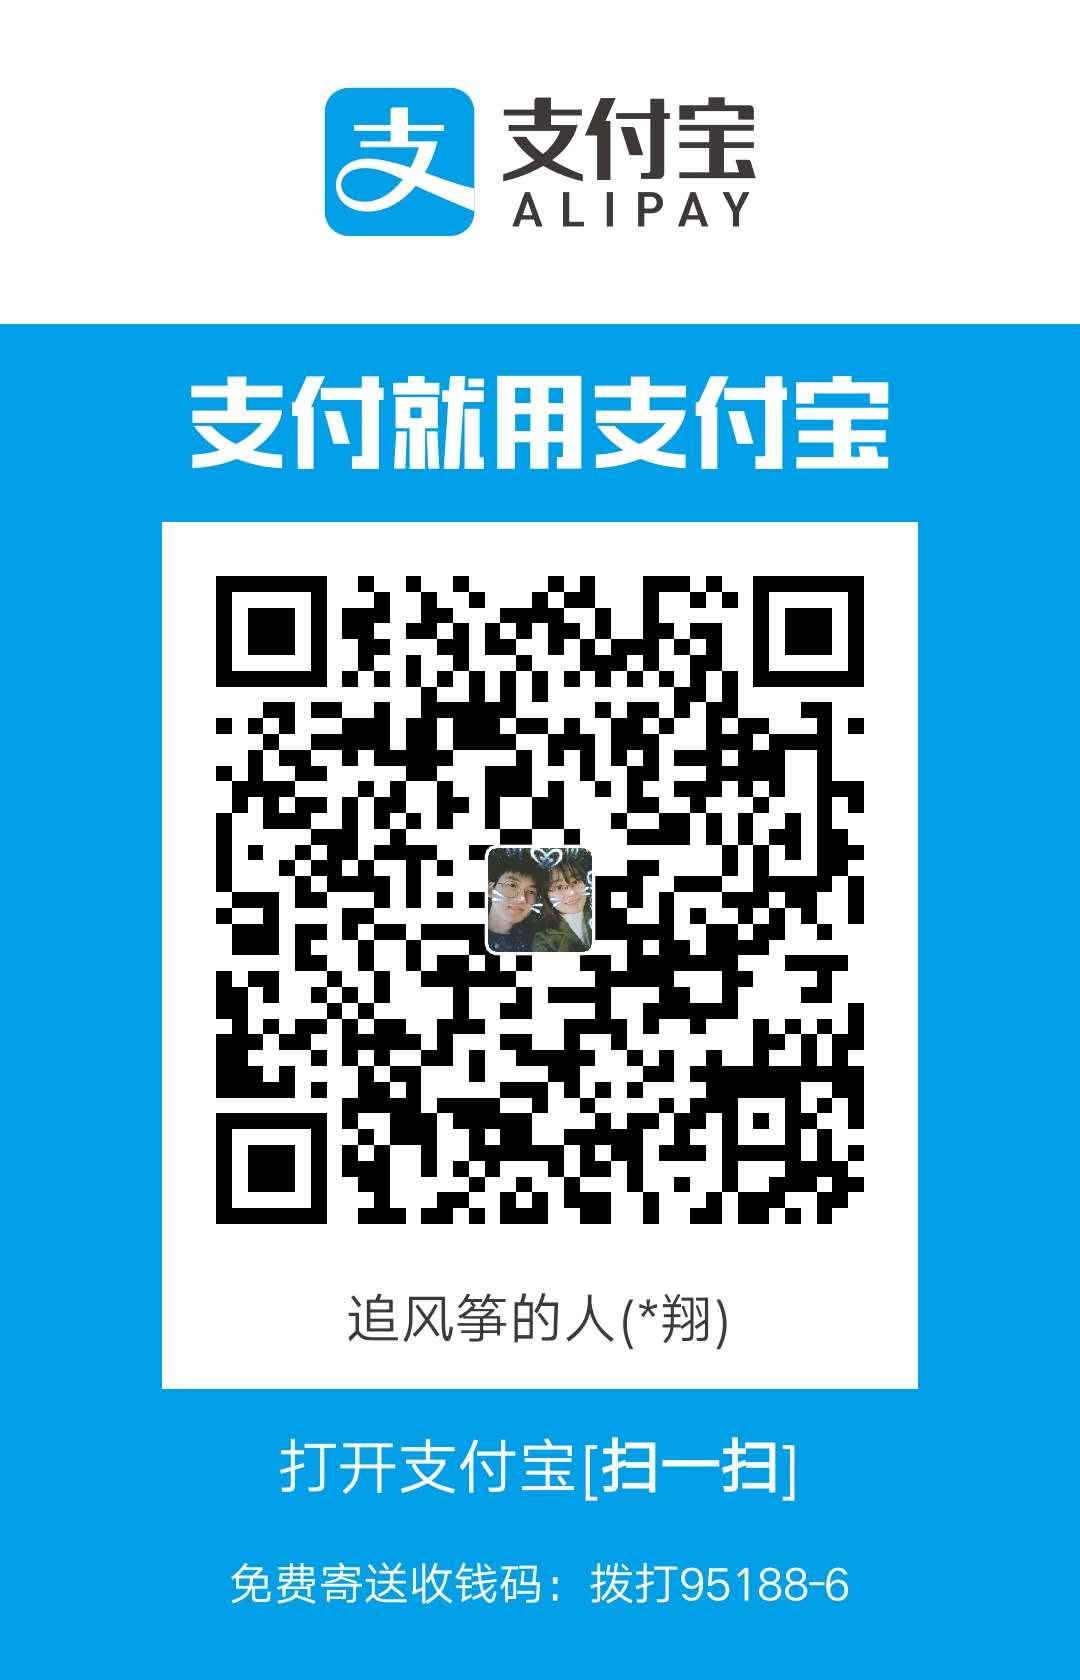
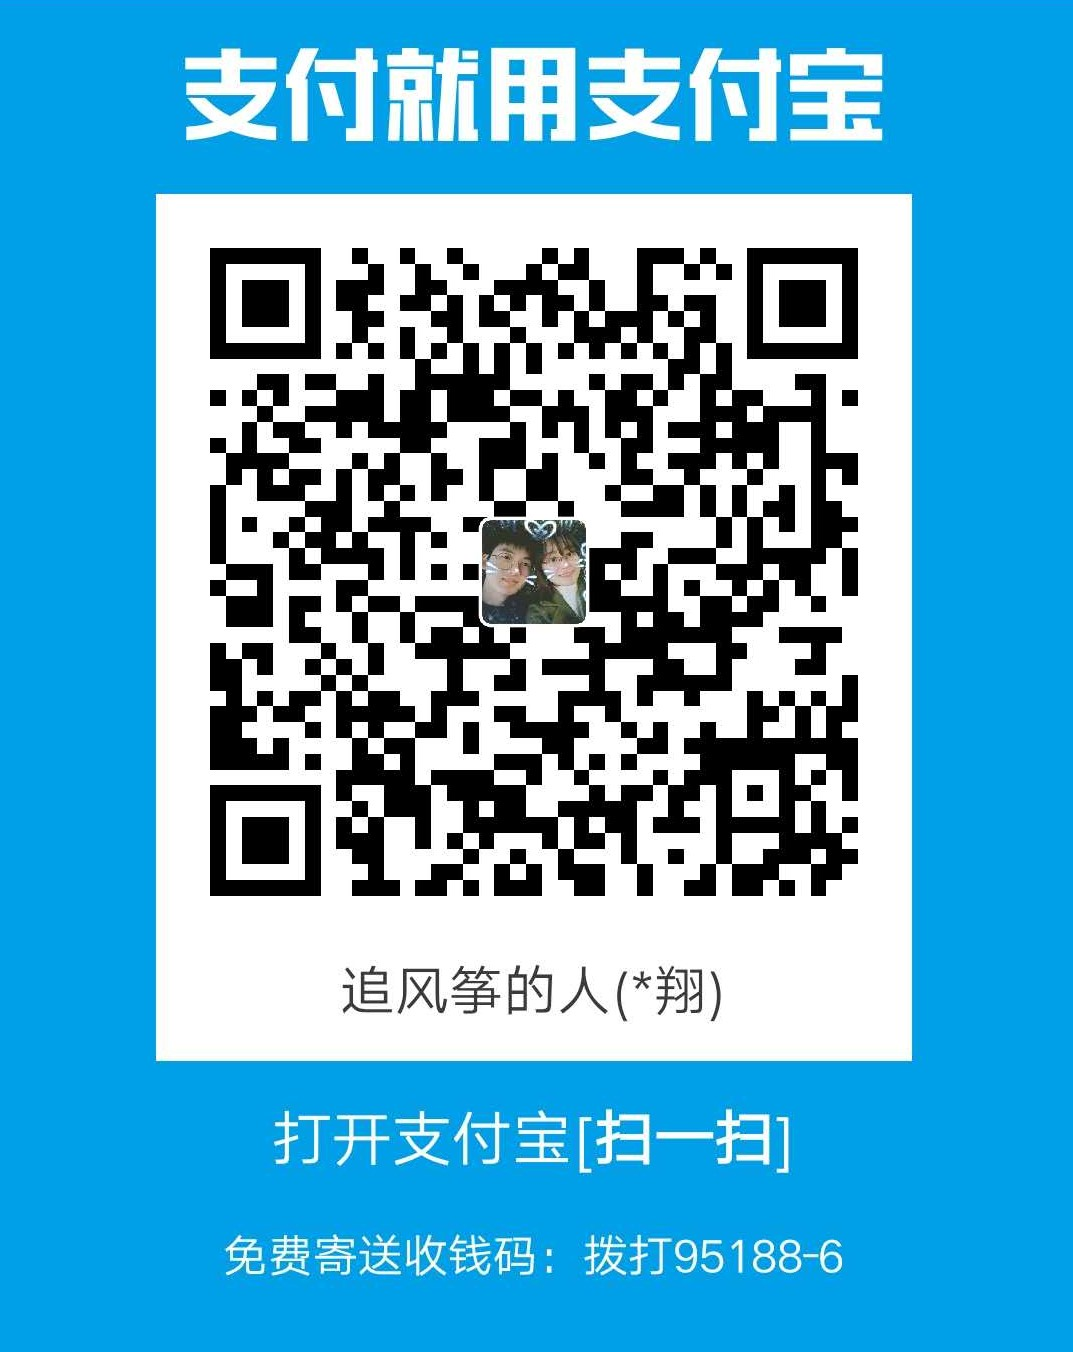
Site updated: 2018-12-12 20:28:52

diff --git a/categories/index.html b/categories/index.html
@@ -103,7 +103,7 @@
 <meta property="og:site_name" content="平凡之路">
 <meta property="og:description" content="Stay Hungry , Stay Foolish , Stay Patient , Stay Love !">
 <meta property="og:locale" content="zh-Hans">
-<meta property="og:updated_time" content="2018-12-12T11:46:48.259Z">
+<meta property="og:updated_time" content="2018-12-12T12:10:12.034Z">
 <meta name="twitter:card" content="summary">
 <meta name="twitter:title" content="categories">
 <meta name="twitter:description" content="Stay Hungry , Stay Foolish , Stay Patient , Stay Love !">
@@ -243,7 +243,7 @@
       
         
         <li class="menu-item menu-item-sitemap">
-          <a href="/sitemap.xml" rel="section">
+          <a href="/sitemap" rel="section">
             
               <i class="menu-item-icon fa fa-fw fa-sitemap"></i> <br>
             
@@ -290,6 +290,22 @@
     </div>
   
 </nav>
+<script>
+    
+    window.onload = function(){
+        var path = 'https://malizhi.cn'; //这里要改成你博客的地址
+        var localhostItem = String(window.location).split(path)[1];
+        var LiNode = document.querySelectorAll('#menu > li > a')
+        
+        for(var i = 0; i< LiNode.length;i++){
+            var item = String(LiNode[i].href).split(path)[1];
+            if(item == localhostItem && item != undefined){
+                LiNode[i].setAttribute('style','border-bottom:1px solid black');
+            }
+        }
+    };
+
+</script>
 
 
 
@@ -346,12 +362,8 @@
 
 
           
-  <div class="comments" id="comments">
-    
       <div id="lv-container" data-id="city" data-uid="MTAyMC80MTU3Ny8xODEyNA=="></div>
-    
-  </div>
-  
+
 
         </div>
         
@@ -602,17 +614,6 @@
 
 
 
-  
-    <script type="text/javascript">
-      (function(d, s) {
-        var j, e = d.getElementsByTagName(s)[0];
-        if (typeof LivereTower === 'function') { return; }
-        j = d.createElement(s);
-        j.src = 'https://cdn-city.livere.com/js/embed.dist.js';
-        j.async = true;
-        e.parentNode.insertBefore(j, e);
-      })(document, 'script');
-    </script>
   
 
 

diff --git a/sitemap/index.html b/sitemap/index.html
@@ -103,7 +103,7 @@
 <meta property="og:site_name" content="平凡之路">
 <meta property="og:description" content="Stay Hungry , Stay Foolish , Stay Patient , Stay Love !">
 <meta property="og:locale" content="zh-Hans">
-<meta property="og:updated_time" content="2018-12-12T11:28:20.863Z">
+<meta property="og:updated_time" content="2018-12-12T12:13:18.276Z">
 <meta name="twitter:card" content="summary">
 <meta name="twitter:title" content="sitemap">
 <meta name="twitter:description" content="Stay Hungry , Stay Foolish , Stay Patient , Stay Love !">
@@ -243,7 +243,7 @@
       
         
         <li class="menu-item menu-item-sitemap">
-          <a href="/sitemap.xml" rel="section">
+          <a href="/sitemap" rel="section">
             
               <i class="menu-item-icon fa fa-fw fa-sitemap"></i> <br>
             
@@ -290,6 +290,22 @@
     </div>
   
 </nav>
+<script>
+    
+    window.onload = function(){
+        var path = 'https://malizhi.cn'; //这里要改成你博客的地址
+        var localhostItem = String(window.location).split(path)[1];
+        var LiNode = document.querySelectorAll('#menu > li > a')
+        
+        for(var i = 0; i< LiNode.length;i++){
+            var item = String(LiNode[i].href).split(path)[1];
+            if(item == localhostItem && item != undefined){
+                LiNode[i].setAttribute('style','border-bottom:1px solid black');
+            }
+        }
+    };
+
+</script>
 
 
 
@@ -339,12 +355,8 @@
 
 
           
-  <div class="comments" id="comments">
-    
       <div id="lv-container" data-id="city" data-uid="MTAyMC80MTU3Ny8xODEyNA=="></div>
-    
-  </div>
-  
+
 
         </div>
         
@@ -595,17 +607,6 @@
 
 
 
-  
-    <script type="text/javascript">
-      (function(d, s) {
-        var j, e = d.getElementsByTagName(s)[0];
-        if (typeof LivereTower === 'function') { return; }
-        j = d.createElement(s);
-        j.src = 'https://cdn-city.livere.com/js/embed.dist.js';
-        j.async = true;
-        e.parentNode.insertBefore(j, e);
-      })(document, 'script');
-    </script>
   
 
 

diff --git a/tags/index.html b/tags/index.html
@@ -103,7 +103,7 @@
 <meta property="og:site_name" content="平凡之路">
 <meta property="og:description" content="Stay Hungry , Stay Foolish , Stay Patient , Stay Love !">
 <meta property="og:locale" content="zh-Hans">
-<meta property="og:updated_time" content="2018-12-12T11:45:34.362Z">
+<meta property="og:updated_time" content="2018-12-12T12:10:30.294Z">
 <meta name="twitter:card" content="summary">
 <meta name="twitter:title" content="tags">
 <meta name="twitter:description" content="Stay Hungry , Stay Foolish , Stay Patient , Stay Love !">
@@ -243,7 +243,7 @@
       
         
         <li class="menu-item menu-item-sitemap">
-          <a href="/sitemap.xml" rel="section">
+          <a href="/sitemap" rel="section">
             
               <i class="menu-item-icon fa fa-fw fa-sitemap"></i> <br>
             
@@ -290,6 +290,22 @@
     </div>
   
 </nav>
+<script>
+    
+    window.onload = function(){
+        var path = 'https://malizhi.cn'; //这里要改成你博客的地址
+        var localhostItem = String(window.location).split(path)[1];
+        var LiNode = document.querySelectorAll('#menu > li > a')
+        
+        for(var i = 0; i< LiNode.length;i++){
+            var item = String(LiNode[i].href).split(path)[1];
+            if(item == localhostItem && item != undefined){
+                LiNode[i].setAttribute('style','border-bottom:1px solid black');
+            }
+        }
+    };
+
+</script>
 
 
 
@@ -346,12 +362,8 @@
 
 
           
-  <div class="comments" id="comments">
-    
       <div id="lv-container" data-id="city" data-uid="MTAyMC80MTU3Ny8xODEyNA=="></div>
-    
-  </div>
-  
+
 
         </div>
         
@@ -602,17 +614,6 @@
 
 
 
-  
-    <script type="text/javascript">
-      (function(d, s) {
-        var j, e = d.getElementsByTagName(s)[0];
-        if (typeof LivereTower === 'function') { return; }
-        j = d.createElement(s);
-        j.src = 'https://cdn-city.livere.com/js/embed.dist.js';
-        j.async = true;
-        e.parentNode.insertBefore(j, e);
-      })(document, 'script');
-    </script>
   
 
 

diff --git a/2018/12/05/hello-world/index.html b/2018/12/05/hello-world/index.html
@@ -243,7 +243,7 @@
       
         
         <li class="menu-item menu-item-sitemap">
-          <a href="/sitemap.xml" rel="section">
+          <a href="/sitemap" rel="section">
             
               <i class="menu-item-icon fa fa-fw fa-sitemap"></i> <br>
             
@@ -290,6 +290,22 @@
     </div>
   
 </nav>
+<script>
+    
+    window.onload = function(){
+        var path = 'https://malizhi.cn'; //这里要改成你博客的地址
+        var localhostItem = String(window.location).split(path)[1];
+        var LiNode = document.querySelectorAll('#menu > li > a')
+        
+        for(var i = 0; i< LiNode.length;i++){
+            var item = String(LiNode[i].href).split(path)[1];
+            if(item == localhostItem && item != undefined){
+                LiNode[i].setAttribute('style','border-bottom:1px solid black');
+            }
+        }
+    };
+
+</script>
 
 
 
@@ -470,7 +486,7 @@
 
     
       <div id="alipay" style="display: inline-block">
-        <img id="alipay_qr" src="/images/alipay.png" alt="Henry Yao Alipay">
+        <img id="alipay_qr" src="/images/alipay.jpg" alt="Henry Yao Alipay">
         <p>Alipay</p>
       </div>
     

diff --git a/archives/2018/12/index.html b/archives/2018/12/index.html
@@ -242,7 +242,7 @@
       
         
         <li class="menu-item menu-item-sitemap">
-          <a href="/sitemap.xml" rel="section">
+          <a href="/sitemap" rel="section">
             
               <i class="menu-item-icon fa fa-fw fa-sitemap"></i> <br>
             
@@ -289,6 +289,22 @@
     </div>
   
 </nav>
+<script>
+    
+    window.onload = function(){
+        var path = 'https://malizhi.cn'; //这里要改成你博客的地址
+        var localhostItem = String(window.location).split(path)[1];
+        var LiNode = document.querySelectorAll('#menu > li > a')
+        
+        for(var i = 0; i< LiNode.length;i++){
+            var item = String(LiNode[i].href).split(path)[1];
+            if(item == localhostItem && item != undefined){
+                LiNode[i].setAttribute('style','border-bottom:1px solid black');
+            }
+        }
+    };
+
+</script>
 
 
 

diff --git a/archives/2018/index.html b/archives/2018/index.html
@@ -242,7 +242,7 @@
       
         
         <li class="menu-item menu-item-sitemap">
-          <a href="/sitemap.xml" rel="section">
+          <a href="/sitemap" rel="section">
             
               <i class="menu-item-icon fa fa-fw fa-sitemap"></i> <br>
             
@@ -289,6 +289,22 @@
     </div>
   
 </nav>
+<script>
+    
+    window.onload = function(){
+        var path = 'https://malizhi.cn'; //这里要改成你博客的地址
+        var localhostItem = String(window.location).split(path)[1];
+        var LiNode = document.querySelectorAll('#menu > li > a')
+        
+        for(var i = 0; i< LiNode.length;i++){
+            var item = String(LiNode[i].href).split(path)[1];
+            if(item == localhostItem && item != undefined){
+                LiNode[i].setAttribute('style','border-bottom:1px solid black');
+            }
+        }
+    };
+
+</script>
 
 
 

diff --git a/archives/index.html b/archives/index.html
@@ -242,7 +242,7 @@
       
         
         <li class="menu-item menu-item-sitemap">
-          <a href="/sitemap.xml" rel="section">
+          <a href="/sitemap" rel="section">
             
               <i class="menu-item-icon fa fa-fw fa-sitemap"></i> <br>
             
@@ -289,6 +289,22 @@
     </div>
   
 </nav>
+<script>
+    
+    window.onload = function(){
+        var path = 'https://malizhi.cn'; //这里要改成你博客的地址
+        var localhostItem = String(window.location).split(path)[1];
+        var LiNode = document.querySelectorAll('#menu > li > a')
+        
+        for(var i = 0; i< LiNode.length;i++){
+            var item = String(LiNode[i].href).split(path)[1];
+            if(item == localhostItem && item != undefined){
+                LiNode[i].setAttribute('style','border-bottom:1px solid black');
+            }
+        }
+    };
+
+</script>
 
 
 

diff --git a/index.html b/index.html
@@ -244,7 +244,7 @@
       
         
         <li class="menu-item menu-item-sitemap">
-          <a href="/sitemap.xml" rel="section">
+          <a href="/sitemap" rel="section">
             
               <i class="menu-item-icon fa fa-fw fa-sitemap"></i> <br>
             
@@ -291,6 +291,22 @@
     </div>
   
 </nav>
+<script>
+    
+    window.onload = function(){
+        var path = 'https://malizhi.cn'; //这里要改成你博客的地址
+        var localhostItem = String(window.location).split(path)[1];
+        var LiNode = document.querySelectorAll('#menu > li > a')
+        
+        for(var i = 0; i< LiNode.length;i++){
+            var item = String(LiNode[i].href).split(path)[1];
+            if(item == localhostItem && item != undefined){
+                LiNode[i].setAttribute('style','border-bottom:1px solid black');
+            }
+        }
+    };
+
+</script>
 
 
 

diff --git a/css/main.css b/css/main.css
@@ -2049,7 +2049,7 @@ img:hover {
   width: 4px;
   height: 4px;
   border-radius: 50%;
-  background: #29638e;
+  background: #91f7ff;
 }
 .links-of-blogroll {
   font-size: 13px;
